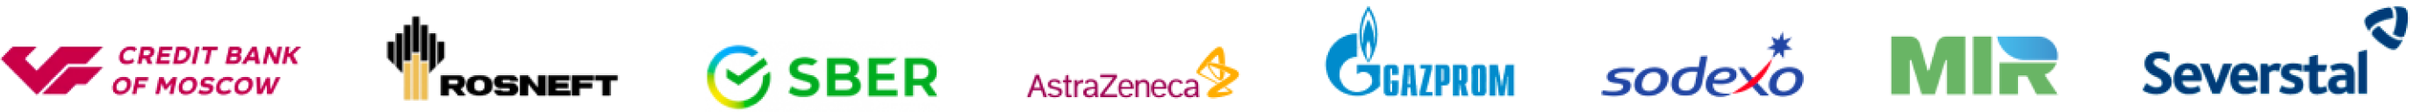
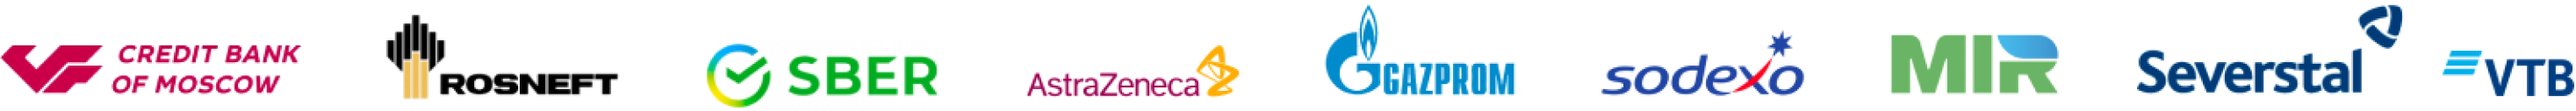
Improvements

Changed region(s): [[0.0, 0.0472, 1.0, 0.9685]]

diff --git a/src/components/Partners.vue b/src/components/Partners.vue
@@ -10,31 +10,35 @@
       <img alt="#" class="bg-index-drop" src="../assets/home/bg-index.png" height="70" draggable="false">
     </div>
   </div>
-  <div class="row">
-    <div class="col p-0">
+  <div class="row d-flex justify-content-center main-row">
+    <div class="col p-0 d-flex justify-content-center">
       <!-- First Belt -->
       <div class="brand-wheel">
         <div class="brand-slide">
           <div class="logo-div">
-            <img alt="#" src="../assets/clip/img.png" height="50" draggable="false">
+            <img alt="#" src="../assets/clip/img.png" height="50" draggable="false" width="1500">
           </div>
         </div>
         <div class="brand-slide delay">
           <div class="logo-div">
-            <img alt="#" src="../assets/clip/img.png" height="50" draggable="false">
+            <img alt="#" src="../assets/clip/img.png" height="50" draggable="false" width="1500">
           </div>
         </div>
       </div>
-      <!-- Second Belt -->
+    </div>
+  </div>
+  <div class="row d-flex justify-content-center main-row pb-5">
+    <div class="col p-0 d-flex justify-content-center">
+      <!-- First Belt -->
       <div class="brand-wheel">
         <div class="brand-slide">
           <div class="logo-div">
-            <img alt="#" src="../assets/clip/img_1.png" height="50" draggable="false">
+            <img alt="#" src="../assets/clip/img_1.png" height="50" draggable="false" width="1500">
           </div>
         </div>
         <div class="brand-slide delay">
           <div class="logo-div">
-            <img alt="#" src="../assets/clip/img_1.png" height="50" draggable="false">
+            <img alt="#" src="../assets/clip/img_1.png" height="50" draggable="false" width="1500">
           </div>
         </div>
       </div>
@@ -75,6 +79,8 @@
   flex-direction: row;
   align-items: center;
   display: flex;
+  width: 100%;
+  max-width: 1600px;
   overflow: hidden;
   position: relative;
   height: 100px;
@@ -119,10 +125,6 @@
 .brand-slide.delay {
   transform: translateX(100%);
   animation-name: slidelogo2;
-}
-
-.brand-wheel:hover .brand-slide {
-  animation-play-state: paused;
 }
 
 .logo-div {
